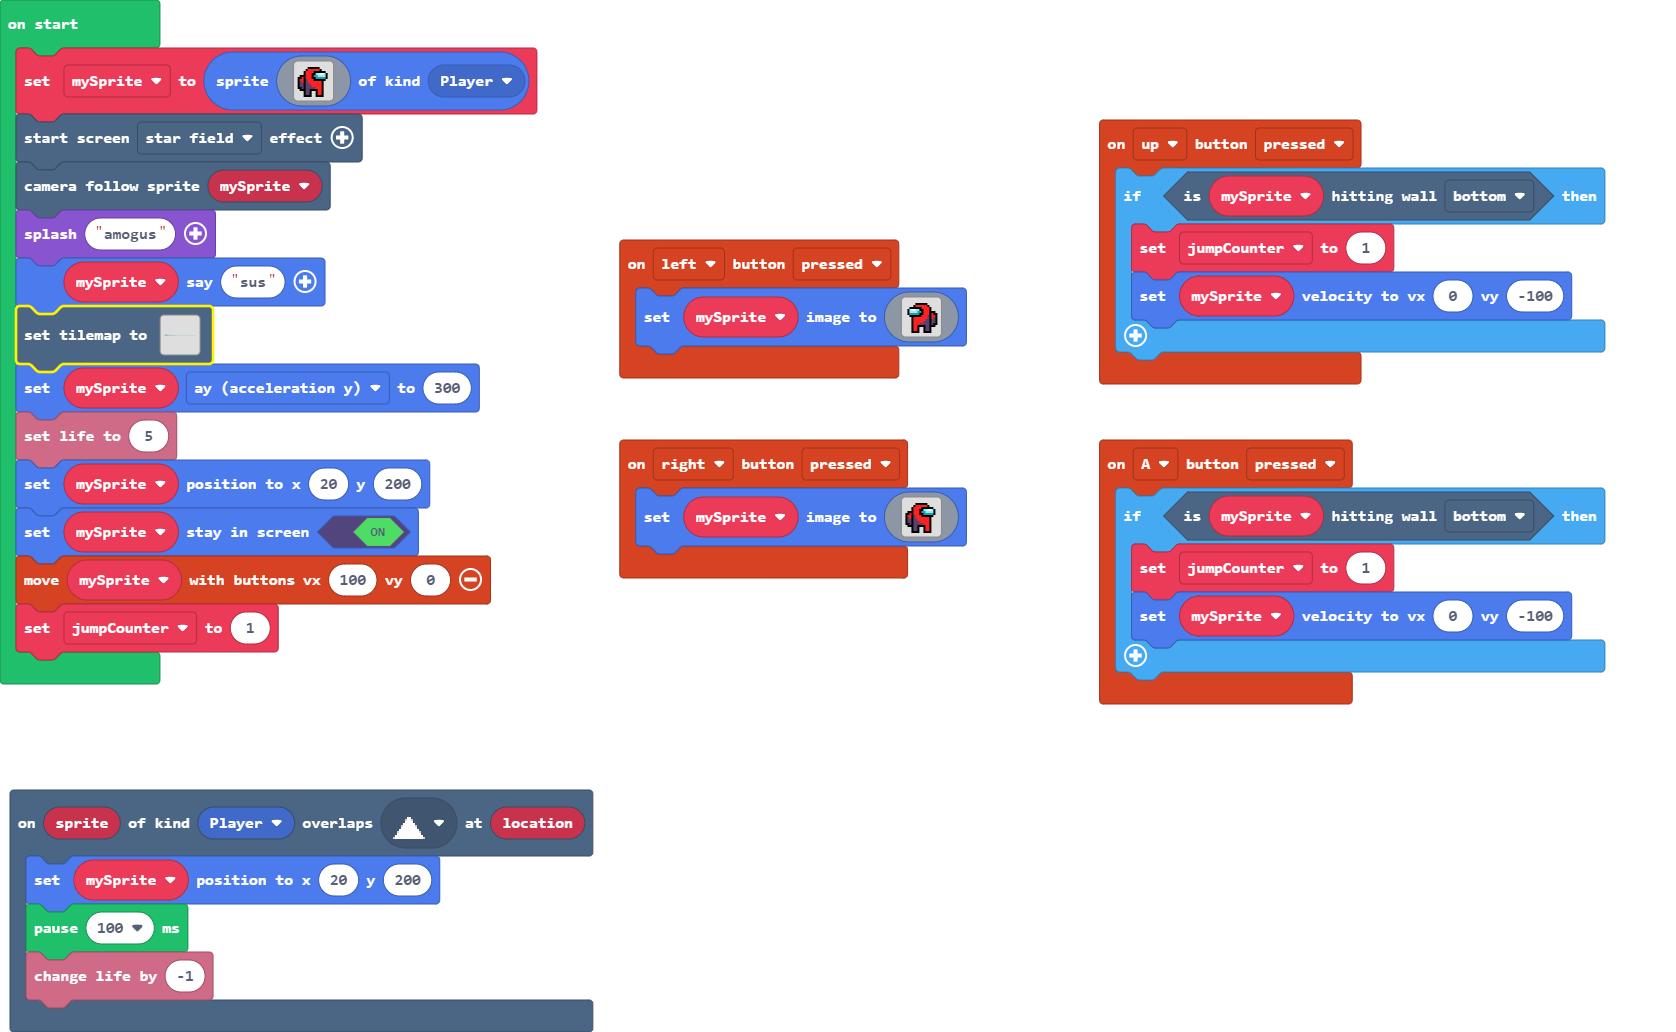
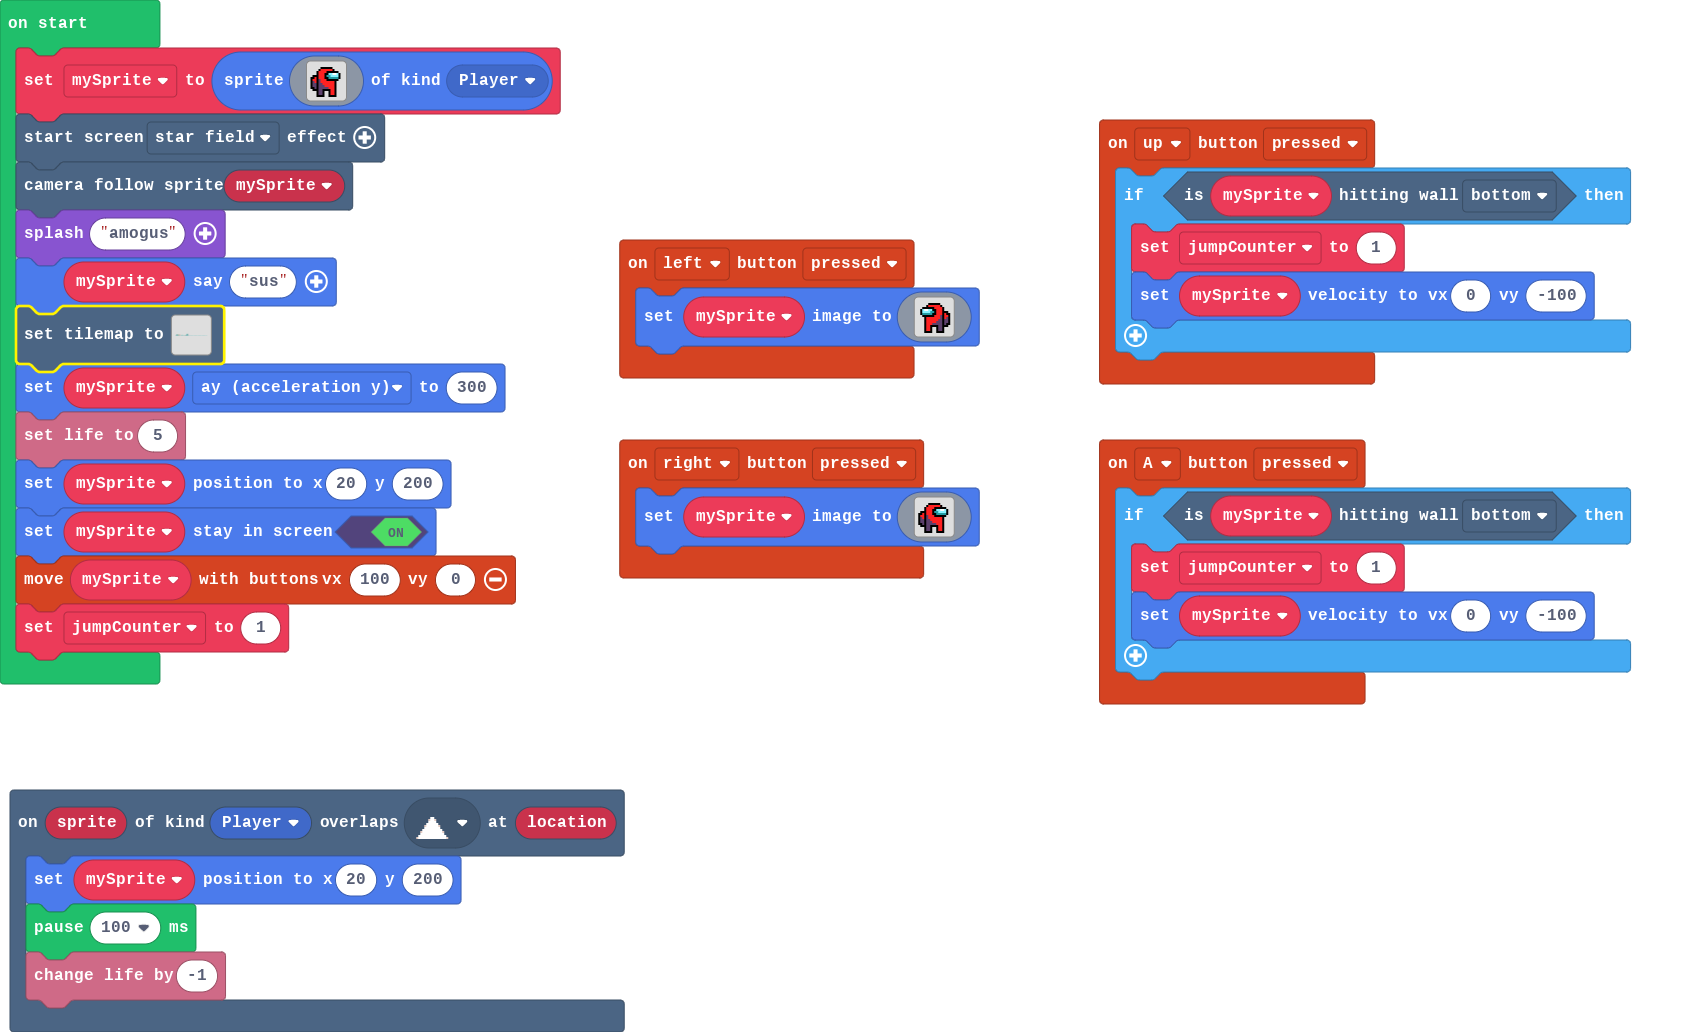
Update main.blocks, tilemap.g.jres, tilemap.g.ts

diff --git a/tilemap.g.ts b/tilemap.g.ts
@@ -28,11 +28,15 @@ namespace myTiles {
     export const tile13 = image.ofBuffer(hex``);
     //% fixedInstance jres blockIdentity=images._tile
     export const tile10 = image.ofBuffer(hex``);
+    //% fixedInstance jres blockIdentity=images._tile
+    export const tile14 = image.ofBuffer(hex``);
+    //% fixedInstance jres blockIdentity=images._tile
+    export const tile15 = image.ofBuffer(hex``);
 
     helpers._registerFactory("tilemap", function(name: string) {
         switch(helpers.stringTrim(name)) {
             case "level1":
[2 lines of base64/hex data omitted]
 ........................................................................................................................................................................................................
 ........................................................................................................................................................................................................
 ........................................................................................................................................................................................................
@@ -40,16 +44,16 @@ namespace myTiles {
 ........................................................................................................................................................................................................
 ........................................................................................................................................................................................................
 ........................................................................................................................................................................................................
-........................................................................................................................................................................................................
-........................................................................................................................................................................................................
-........................................................................................................................................................................................................
-.........................22...22........................................................................................................................................................................
-........2222222...2222...22.......22....................................................................................................................................................................
-.......22222222...2222...22.............................................................................................................................................................................
-......222222222...2222...22.............2222222.........................................................................................................................................................
-.....2222222222...2222...22.............2222222....22....22....22222....................................................................................................................................
+..........................................................................22222.........................................................................................................................
+.........................................................................222222.........................................................................................................................
+........................................................................2222222.........................................................................................................................
+.........................22...22.......................................22222222.........................................................................................................................
+........2222222...2222...22.......22..................................222222222.........................................................................................................................
+.......22222222...2222...22..........................................2222222222.........................................................................................................................
+......222222222...2222...22.............2222222.....................22222222222.........................................................................................................................
+.....2222222222...2222...22.............2222222....22....22....2222222222222222.........................................................................................................................
 22222222222222222222222222222222222222222222222222222222222222222222222222222222222222222222222222222222222222222222222222222222222222222222222222222222222222222222222222222222222222222222222222222222
-`, [myTiles.transparency16,myTiles.tile1,myTiles.tile3,myTiles.tile4,myTiles.tile6,myTiles.tile7,myTiles.tile8,myTiles.tile11,myTiles.tile12,myTiles.tile13], TileScale.Sixteen);
+`, [myTiles.transparency16,myTiles.tile1,myTiles.tile3,myTiles.tile4,myTiles.tile6,myTiles.tile7,myTiles.tile8,myTiles.tile14], TileScale.Sixteen);
         }
         return null;
     })
@@ -83,6 +87,10 @@ namespace myTiles {
             case "tile13":return tile13;
             case "myTile0":
             case "tile10":return tile10;
+            case "handrail":
+            case "tile14":return tile14;
+            case "myTile3":
+            case "tile15":return tile15;
         }
         return null;
     })
